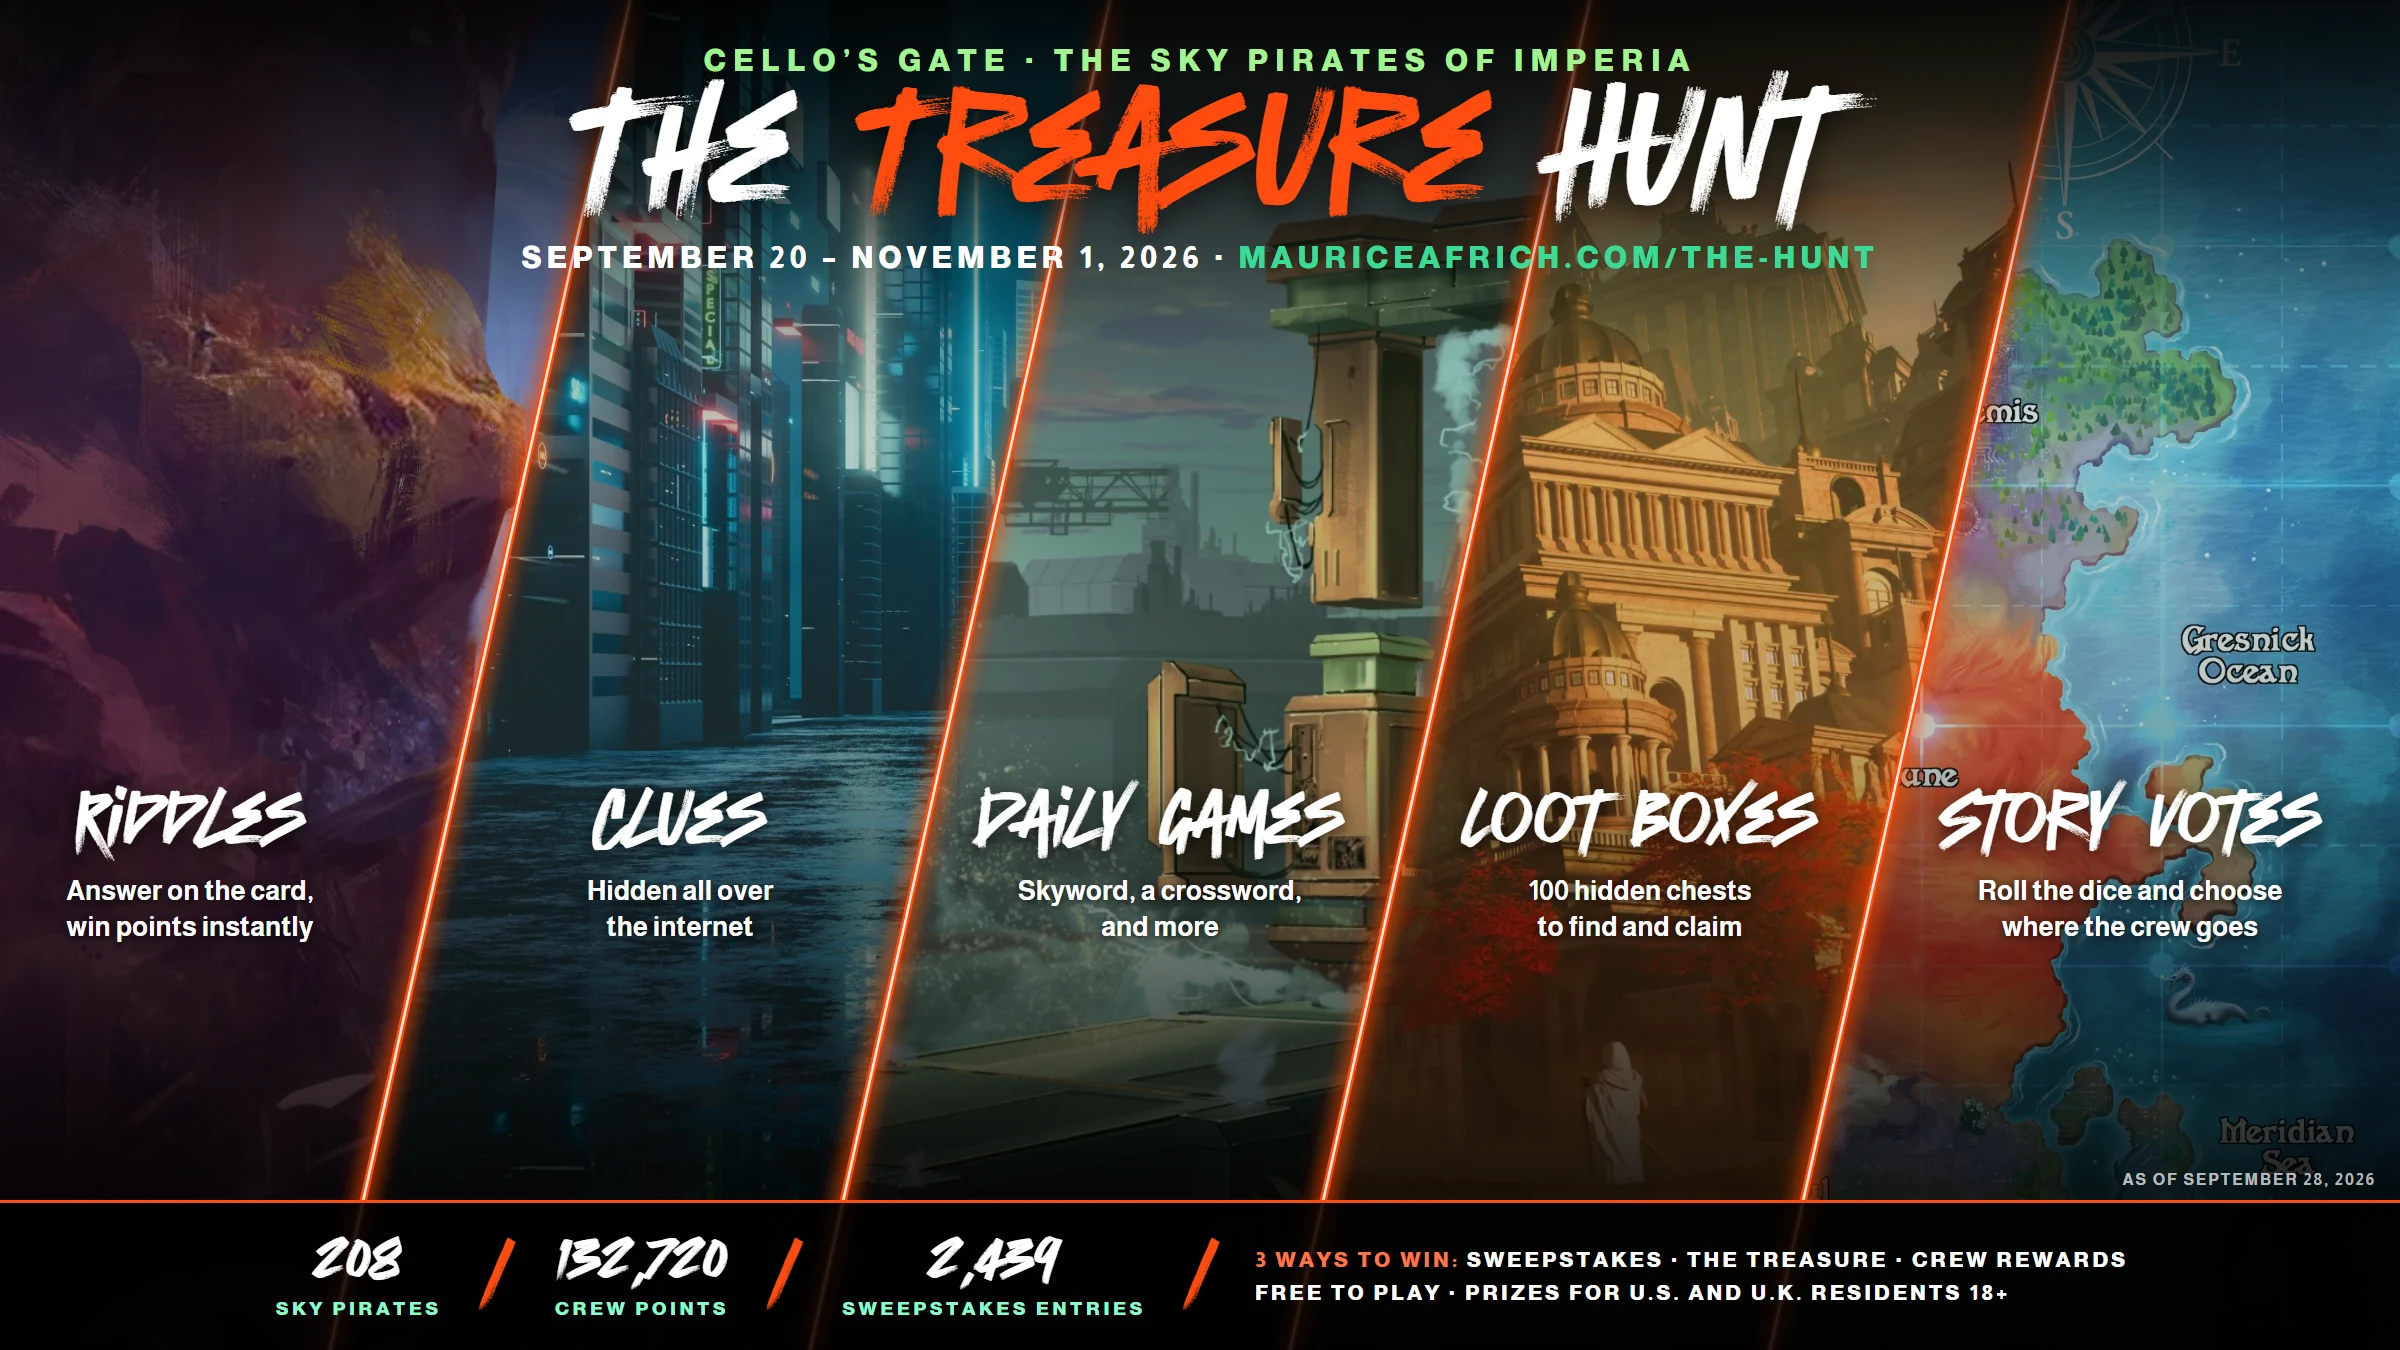
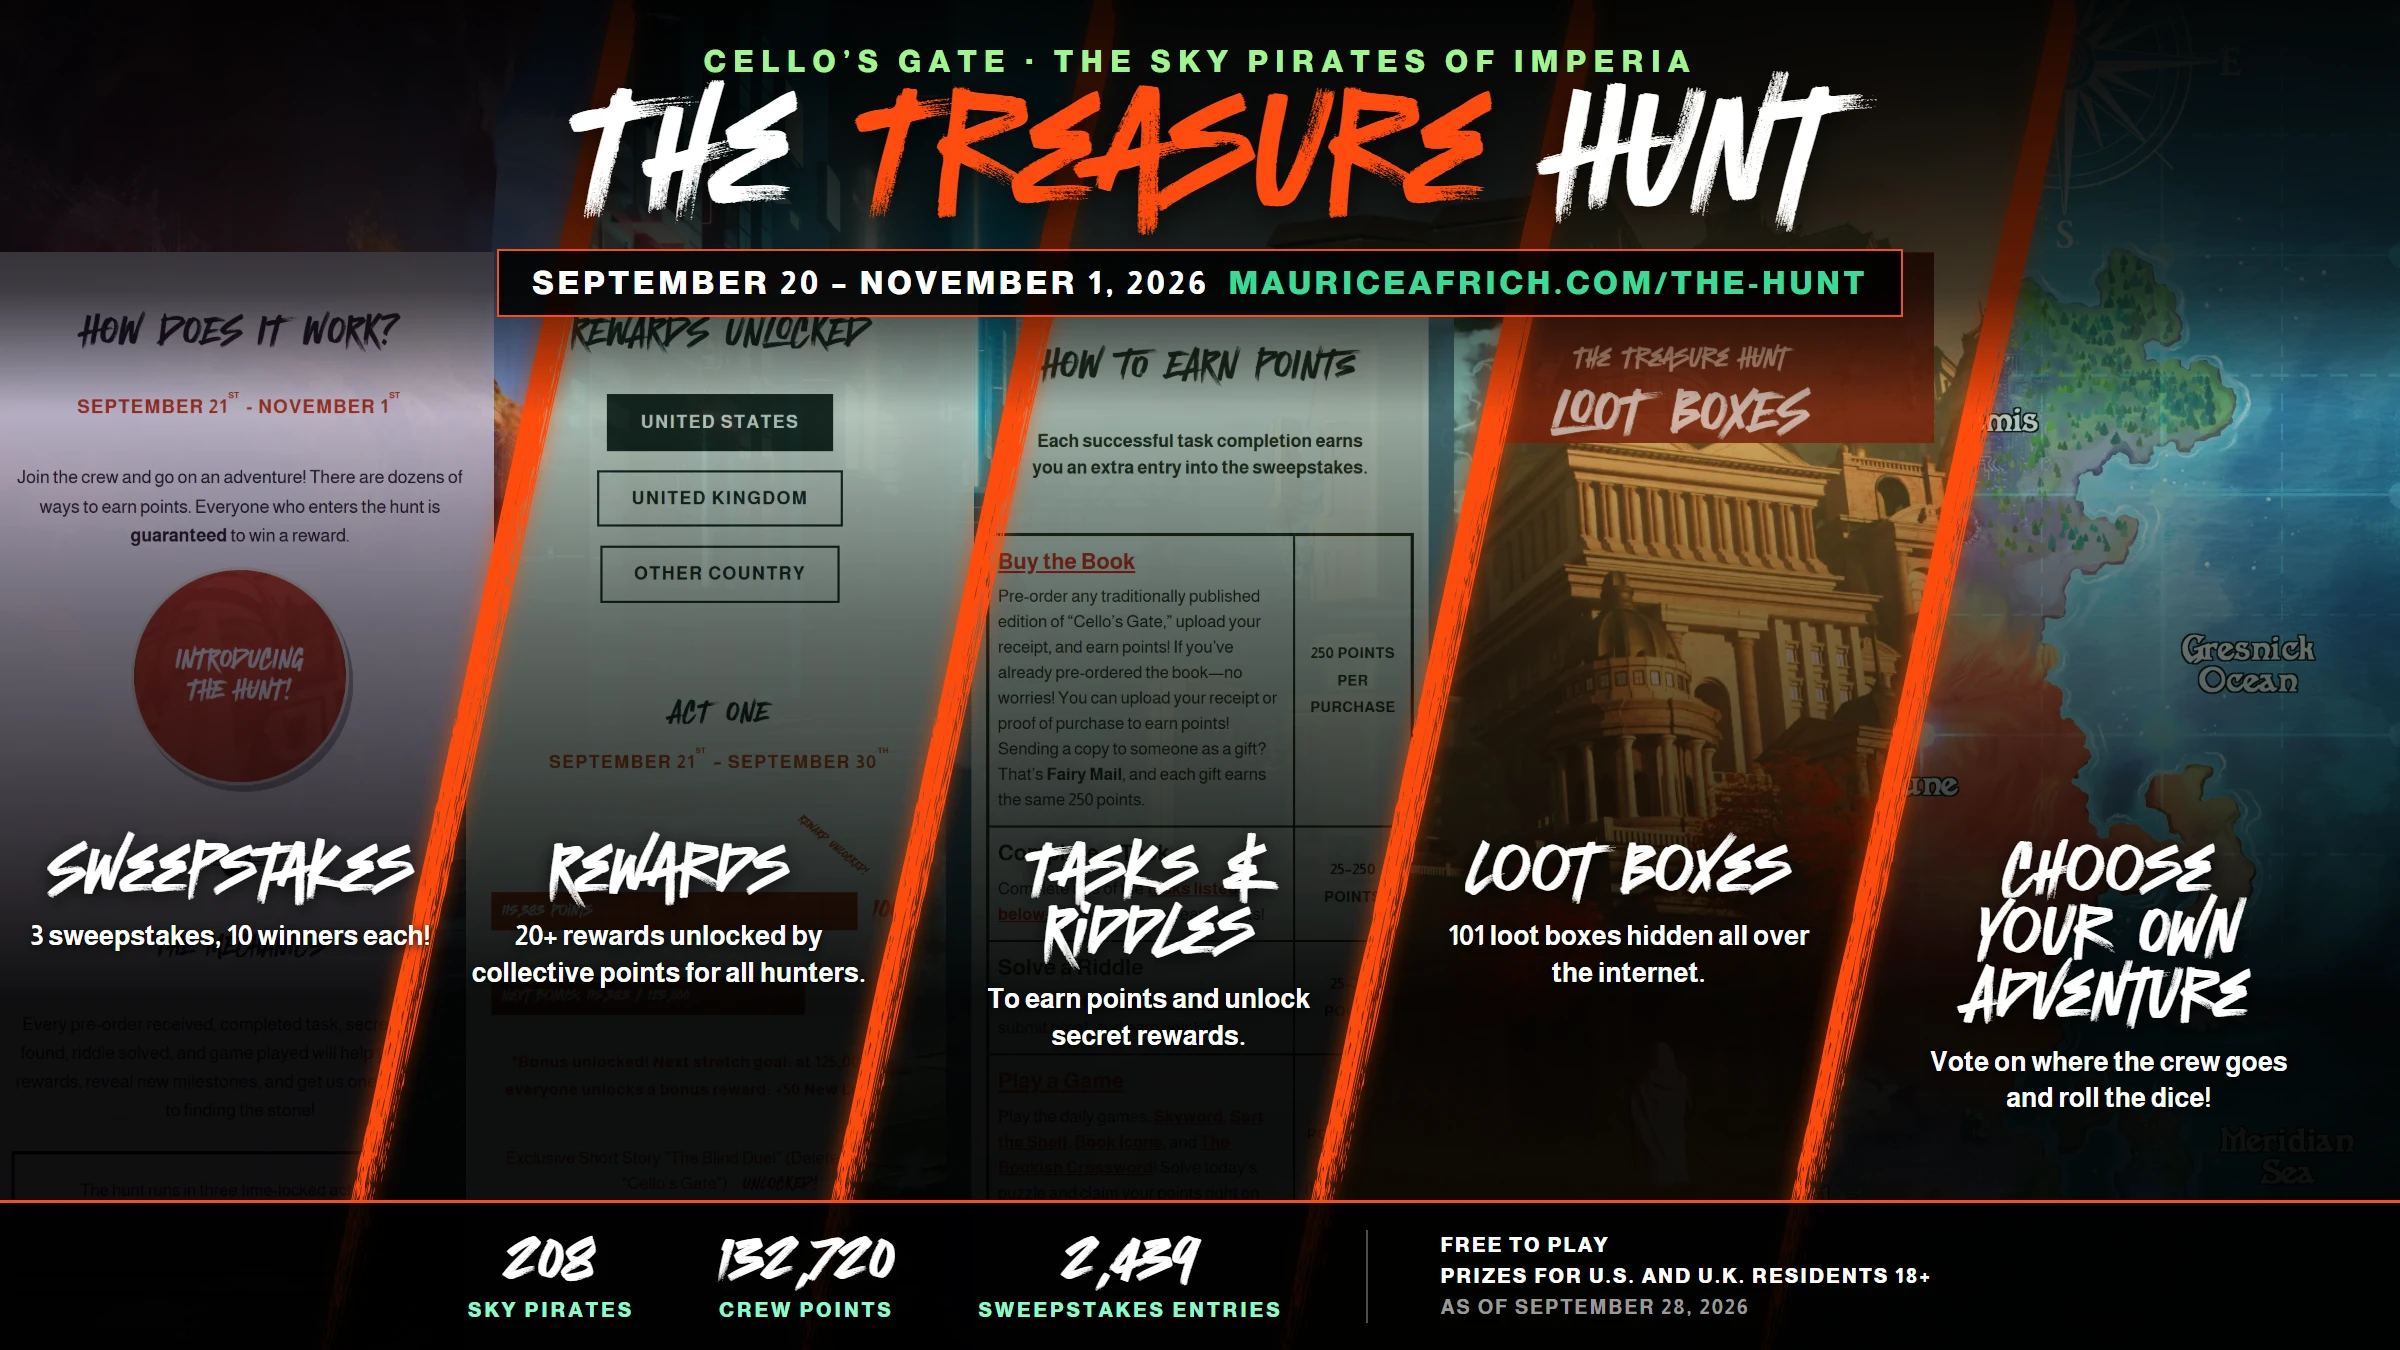
Hunt graphic: brush slashes, hunt pages in the panels, new copy, all sizes (preview)

diff --git a/pages/press.html b/pages/press.html
@@ -118,7 +118,7 @@
       <p class="pp-asof">As of September 28, 2026.</p>
       <blockquote class="pp-quote"><p>“I spent my entire life waiting for someone to open a door for me, thinking that was something I was entitled to, for some reason. And then I realized that everyone with a key to a door worth opening didn’t know my name. They had no stake in my story. So I endeavored to change that.</p><p>I worked myself to the bone, hired two world-class editors, went to market on a six-month marketing strategy, and sold a lot of books. And then people started knowing my name. That’s when Simon Maverick came to me with an offer which I took to Merrilee Heifetz of Writers House, who took it to Saga Press, who waved me in with such ease, it was like there was never a door at all.</p><p>That’s why I built this treasure hunt. Because I thought it would be fun (which is a cornerstone of my brand), I thought it would help us sell a lot of books, and I thought, by the end of it, a lot more people would know my name. We’ll see, huh? If nothing else, I know we’re all having a pretty damn good time.”</p><cite>Maurice Africh, Author of “Cello’s Gate”</cite></blockquote>
       <dl class="pp-facts"><dt>Dates</dt><dd>September 20 to November 1, 2026. It ends two days before “Cello’s Gate” comes out.</dd><dt>Where</dt><dd>mauriceafrich.com/the-hunt</dd><dt>Who</dt><dd>Free and open to everyone, everywhere. The Treasure and sweepstakes prizes are for U.S. and UK residents, 18 and older.</dd><dt>Players</dt><dd>208 sky pirates so far: 171 in the U.S., 16 in the UK, and 19 in other countries, including Canada and Estonia.</dd><dt>Traffic</dt><dd>My website averaged about 10 visits a day before the hunt. In its first nine days it had 7,101 visits and 16,570 page views, with 1,268 visits on September 27 alone.</dd><dt>Play</dt><dd>Tasks, riddles, clues, the daily Skyword game, a crossword, 100 hidden loot boxes, and a fan fiction contest.</dd><dt>Story</dt><dd>Choose-your-own-adventure-style game with a voting and dice rolling system that determines the outcomes. The crew works together to explore the island and find the treasure. With guest appearances by Gary Furlong!</dd><dt>Crew</dt><dd>Every point also counts toward a shared crew total that unlocks rewards for all players. The crew hit 100% of the Act One goal in eight days.</dd><dt>Acts</dt><dd>Three sweepstakes: Act One (September 21 to 30), Act Two (October 1 to 15), and Act Three (October 16 to November 1). Winners are announced the day after each act ends.</dd><dt>Treasure</dt><dd>The top three on the U.S. and UK leaderboards win The Treasure: signed editions, art prints, custom bookmarks, enamel pins, an advance audiobook, and more.</dd></dl>
-      <figure class="pp-gfx"><a href="https://africhmaurice.github.io/site/assets/press/hunt-overview.png" target="_blank" rel="noopener"><img src="https://africhmaurice.github.io/site/assets/press/hunt-overview.webp" width="2400" height="1350" alt="The Cello’s Gate Treasure Hunt: five art panels split by glowing slashes for riddles, clues, daily games, loot boxes, and story votes, over 208 sky pirates, 132,720 crew points, 2,439 sweepstakes entries, and three ways to win." loading="lazy"></a><figcaption><a href="https://africhmaurice.github.io/site/assets/press/hunt-overview.png" target="_blank" rel="noopener">Download the full-size graphic ↓</a></figcaption></figure>
+      <figure class="pp-gfx"><a href="https://africhmaurice.github.io/site/assets/press/hunt-overview.png" target="_blank" rel="noopener"><img src="https://africhmaurice.github.io/site/assets/press/hunt-overview.webp" width="2400" height="1350" alt="The Cello’s Gate Treasure Hunt: five panels split by brush slashes. Sweepstakes: 3 sweepstakes, 10 winners each. Rewards: 20+ rewards unlocked by collective points for all hunters. Tasks and Riddles: to earn points and unlock secret rewards. Loot Boxes: 101 loot boxes hidden all over the internet. Choose Your Own Adventure: vote on where the crew goes and roll the dice. 208 sky pirates, 132,720 crew points, 2,439 sweepstakes entries." loading="lazy"></a><figcaption><a href="https://africhmaurice.github.io/site/assets/press/hunt-overview.png" target="_blank" rel="noopener">Download the full-size graphic ↓</a></figcaption></figure>
       <div class="pp-cta"><a class="pp-btn" href="/the-hunt">See the hunt</a><a class="pp-btn" href="/leaderboard">Live leaderboard</a></div>
     </section>
 
